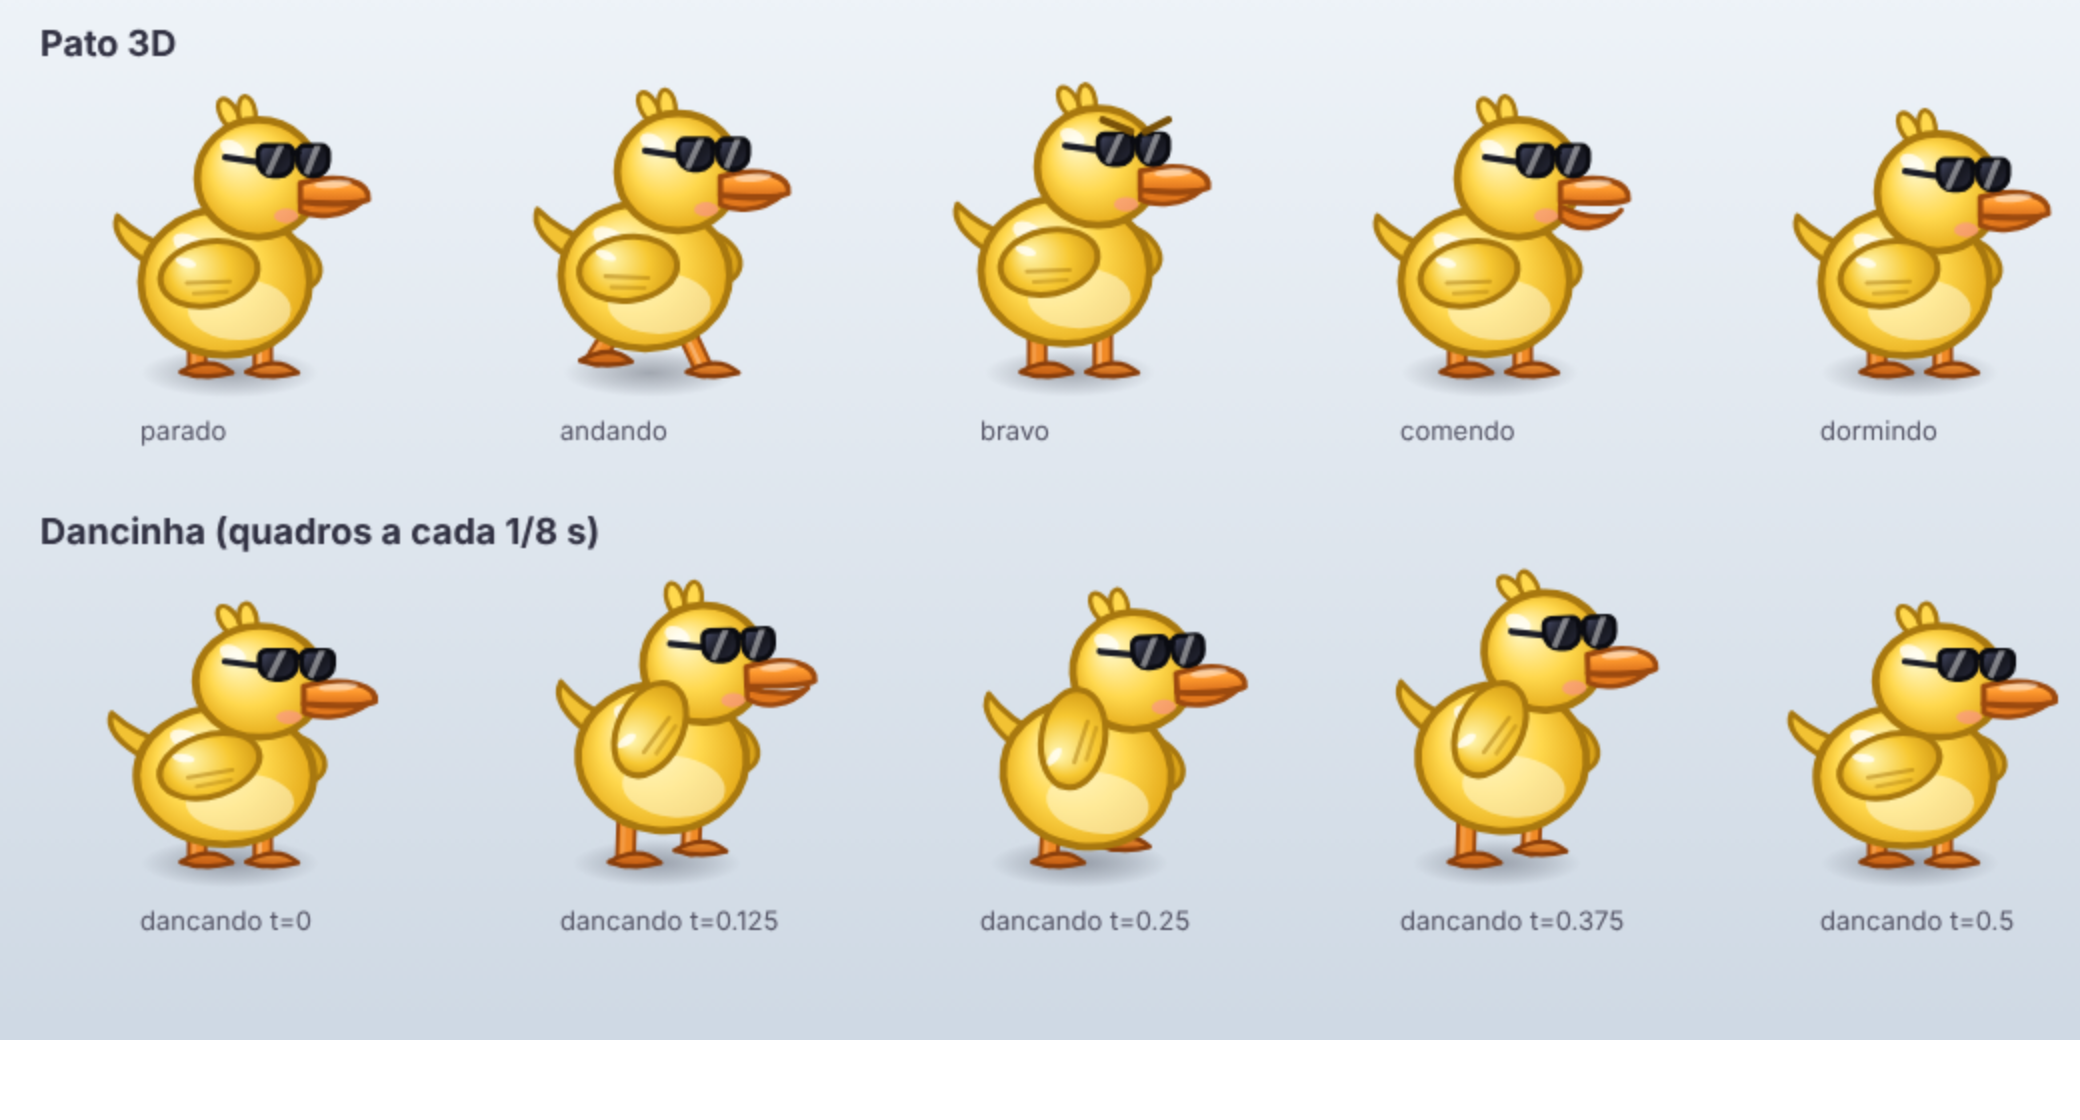
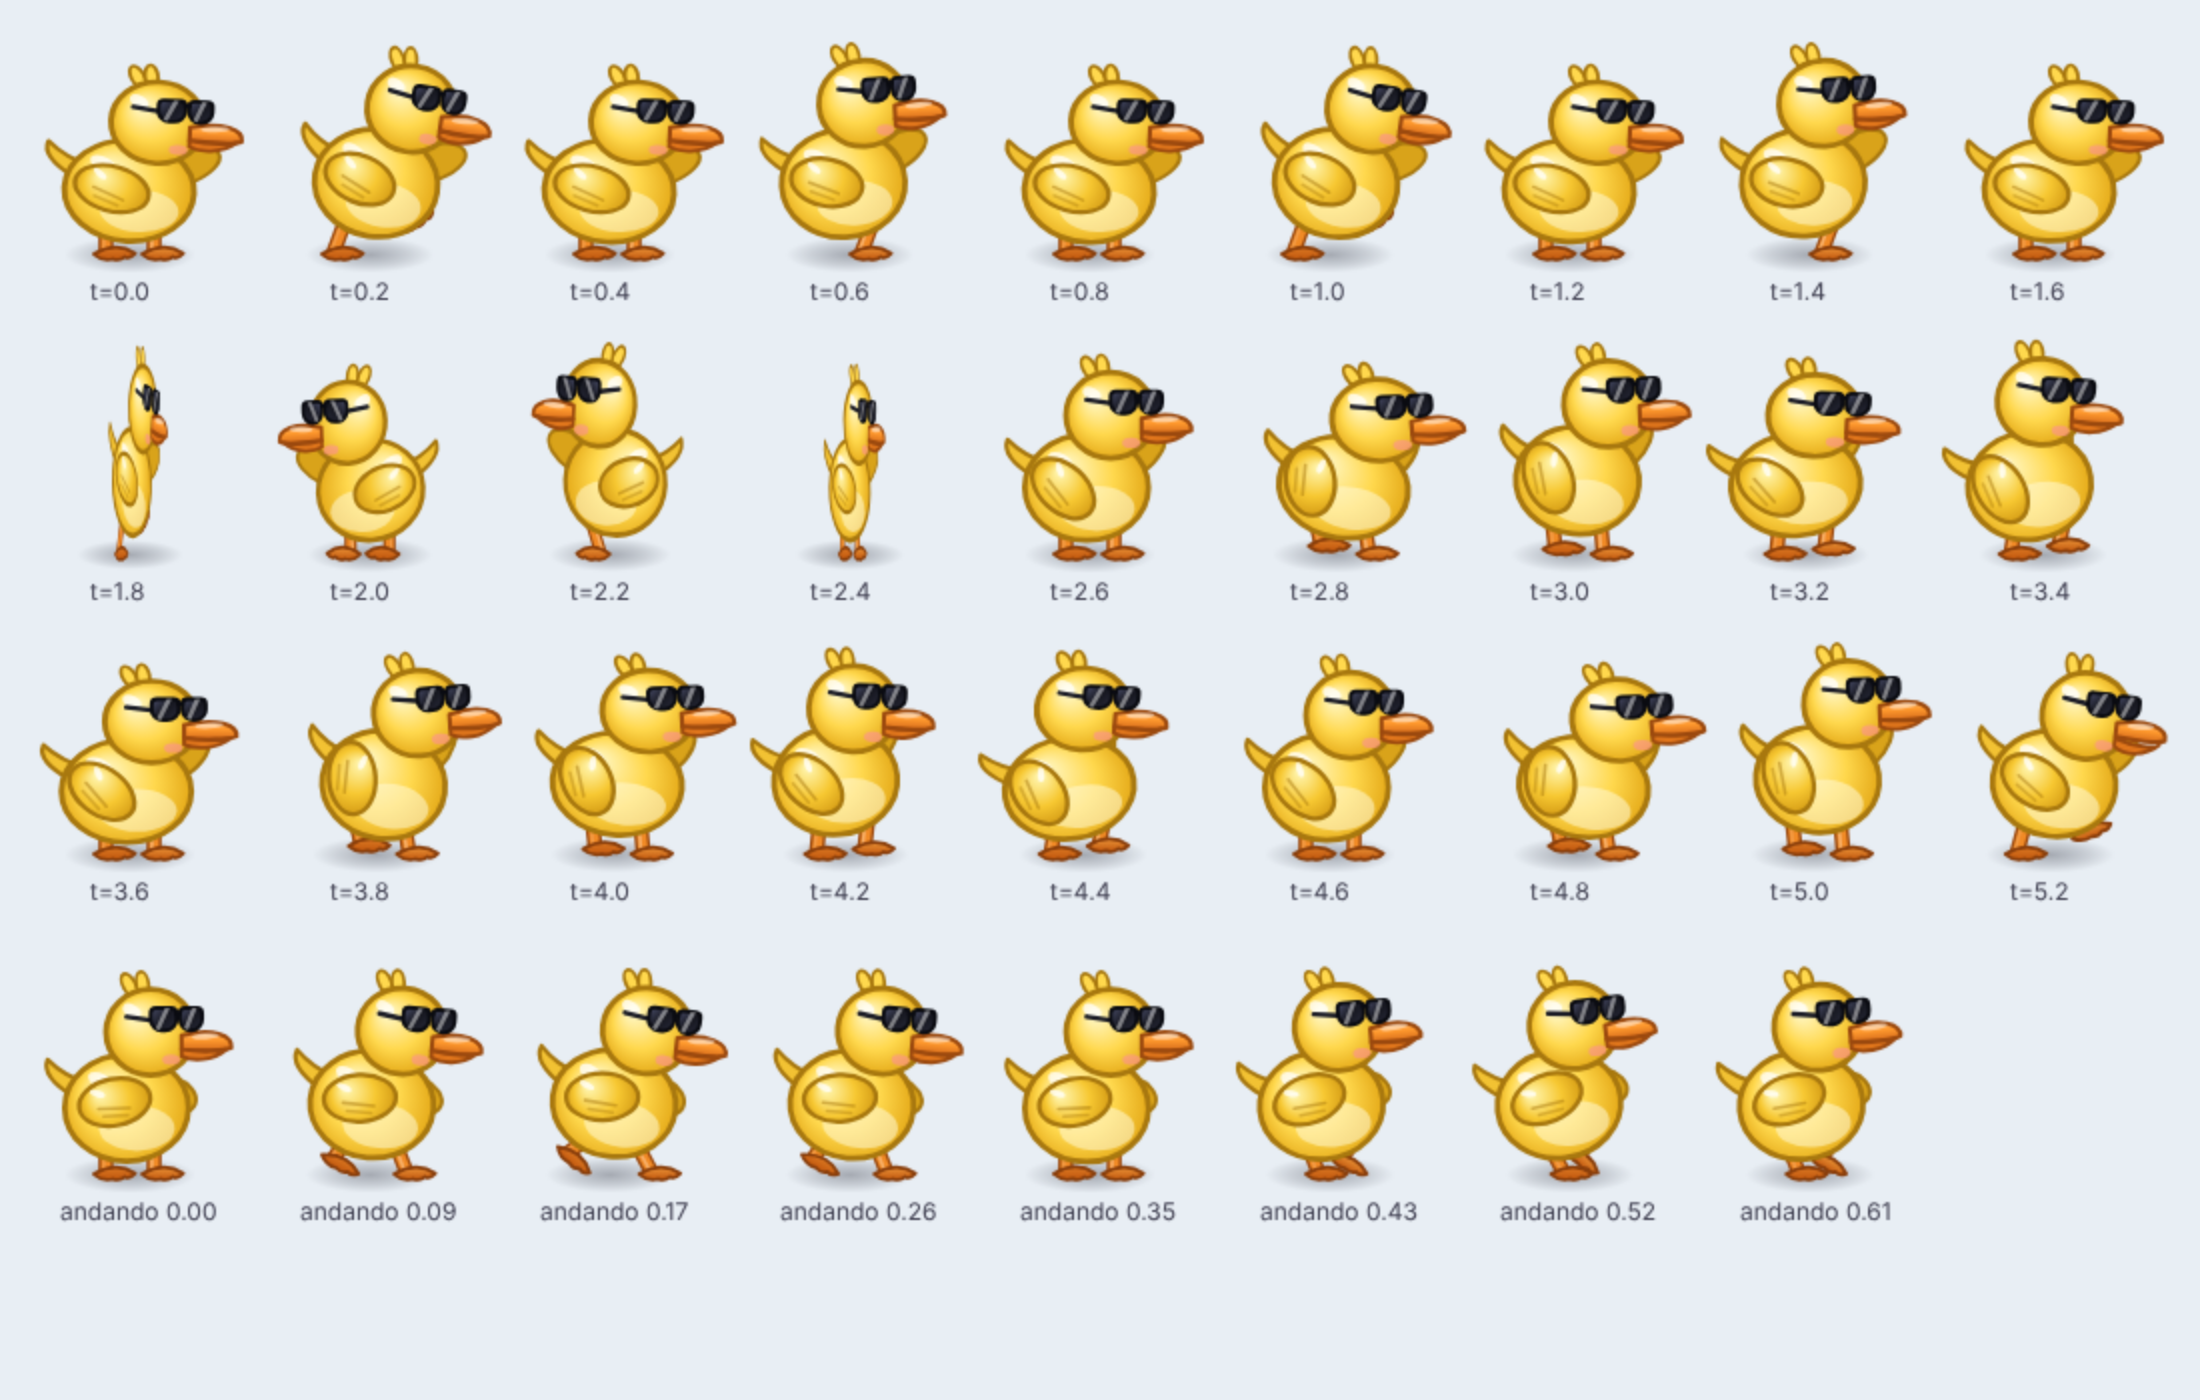
Dança e andar do Pato iguais aos vídeos: desfile, volta no lugar, rebolado e gingado
Claude-Session: https://claude.ai/code/session_018UCyvXeqjYPSoZZ531MXNh

diff --git a/src/vetor.js b/src/vetor.js
@@ -499,8 +499,8 @@
 
 
   // ---------- Pato 3D ----------
-  // Pato gordinho de óculos escuros, com a mesma luz/volume do Palito 3D. Tem a "dancinha":
-  // balança de um lado para o outro no ritmo, quica, bate as asas alternadas e mexe a cabeça.
+  // Pato gordinho de óculos escuros, com a mesma luz/volume do Palito 3D, gingado de pato no
+  // andar e uma dancinha (desfile, volta no lugar e rebolado de asas abertas).
   function pato3d(g, s) {
     const { w, h } = s;
     const r = ritmo(s);
@@ -508,45 +508,98 @@
     g.scale(w / 64, h / 64);
     const danca = s.anim === "dancando";
     const plana = !!s.planando; // caindo com as asas abertas (no lugar do paraquedas)
-    const fase = s.t * TAU * 2; // 2 batidas por segundo
-    const lado = danca ? Math.sin(fase / 2) : 0; // -1..1, um passo para cada lado por batida
-    const quica = danca ? Math.abs(Math.sin(fase)) * 3.2 : 0;
+    const andando = !danca && !plana && r.anda > 0;
+
+    // ---- pose do momento ----
+    // A dança segue o vídeo de referência em 3 partes (ciclo de 5,1 s):
+    //  1) desfile: passos marcados levantando bem os pés, asas um pouco abertas;
+    //  2) dá uma volta no lugar (gira) sem parar de marchar;
+    //  3) rebola de um lado para o outro com as asas abertas e a cabeça inclinando.
+    // O andar é um gingado de pato: o corpo rola para o lado do pé que está no chão e o
+    // pé que sobe vai para trás mostrando a sola.
+    const pose = { lado: 0, rot: 0, giro: 1, quica: 0, asaFrente: null, asaTras: null, inclina: 0, bob: 0, pes: {} };
+    const T = danca ? s.t % 5.1 : 0;
+    const marchar = (freq, alto) => {
+      const p = Math.sin(T * TAU * freq);
+      pose.rot = p * 0.1 + 0.05;
+      pose.quica = Math.abs(p) * 1.5;
+      for (const ld of [-1, 1]) {
+        const sobe = Math.max(0, p * ld);
+        pose.pes[ld] = { levanta: sobe * alto, anda: p * ld * 3.5, ang: -sobe * 0.5 };
+      }
+      const bate = Math.sin(T * TAU * freq * 2);
+      pose.asaFrente = 0.45 + bate * 0.2;
+      pose.asaTras = -0.45 - bate * 0.2;
+      pose.bob = Math.sin(T * TAU * freq * 2 + 0.6) * 1.4;
+    };
+    if (danca && T < 2.6) {
+      marchar(1.25, 8);
+      if (T >= 1.6) pose.giro = Math.cos(((T - 1.6) / 1.0) * TAU); // uma volta inteira
+    } else if (danca) {
+      const lado = Math.sin((T - 2.6) * TAU);
+      pose.lado = lado;
+      pose.rot = lado * 0.15;
+      pose.quica = Math.abs(Math.sin((T - 2.6) * TAU * 2)) * 2.4;
+      const flap = Math.sin(T * TAU * 3) * 0.22;
+      pose.asaFrente = 1.15 + flap + Math.max(0, lado) * 0.3;
+      pose.asaTras = -0.85 - flap - Math.max(0, -lado) * 0.3;
+      pose.inclina = -lado * 0.22;
+      pose.bob = Math.sin((T - 2.6) * TAU * 2 + 0.6) * 1.6;
+      for (const ld of [-1, 1]) pose.pes[ld] = { levanta: Math.max(0, -lado * ld) * 2.5, anda: lado * 2, ang: 0 };
+    } else if (andando) {
+      pose.rot = r.passo * 0.12;
+      for (const ld of [-1, 1]) {
+        const sobe = Math.max(0, -r.passo * ld);
+        pose.pes[ld] = { levanta: sobe * 5.5, anda: r.passo * 5 * ld, ang: sobe * 0.7 };
+      }
+    }
+    const lado = pose.lado;
+    const quica = pose.quica;
     const sobe = -r.quique - r.pulo - quica;
-    sombra3d(g, 32 + lado * 2, 62.5, 19, -sobe + (s.anim === "caindo" ? 30 : 0));
+    sombra3d(g, 32 + lado * 2, 62.5, 19 * (0.75 + 0.25 * Math.abs(pose.giro)), -sobe + (s.anim === "caindo" ? 30 : 0));
+    // girando: espelha tudo em volta do meio (fica fininho no meio da volta)
+    g.translate(32, 0);
+    g.scale(Math.abs(pose.giro) < 0.12 ? 0.12 * Math.sign(pose.giro || 1) : pose.giro, 1);
+    g.translate(-32, 0);
 
     const AMARELO = ["#fff7c2", "#ffd84d", "#e3a614", "#a8780f"];
     const LARANJA = ["#ffc58a", "#ff9a2e", "#d4691a", "#9c4a0f"];
-    // pés: na dança, o pé do lado para onde ele vai levanta
+    // pés grandes e chatos de pato
     for (const [px, ld] of [[25, -1], [39, 1]]) {
-      const levanta = plana ? 5 : danca ? Math.max(0, lado * ld) * 3.5 : Math.max(0, -r.passo * ld) * 2.5;
-      const anda = plana ? -4 : r.passo * 4.5 * ld;
-      const fx = px + anda + lado * 2.5;
-      const fy = 61.5 - levanta;
+      const pe = pose.pes[ld] || { levanta: plana ? 5 : 0, anda: plana ? -4 : 0, ang: plana ? 0.5 : 0 };
+      const fx = px + pe.anda + lado * 2.5;
+      const fy = 61.5 - pe.levanta;
       tubo(g, (c) => { c.beginPath(); c.moveTo(px + lado * 3, 53 + sobe * 0.6); c.lineTo(fx, fy); }, 2.8, ["#9c4a0f", "#f08a26", "#ffd0a0"], r, ld < 0);
+      g.save();
+      g.translate(fx, fy);
+      g.rotate(pe.ang);
       g.beginPath();
-      g.moveTo(fx - 3.5, fy + 0.8);
-      g.quadraticCurveTo(fx + 3, fy - 3, fx + 7.5, fy + 1);
-      g.quadraticCurveTo(fx + 2, fy + 2.6, fx - 3.5, fy + 0.8);
-      const gp = g.createLinearGradient(0, fy - 3, 0, fy + 2.5);
+      g.moveTo(-3.5, 0.8);
+      g.quadraticCurveTo(3, -3.2, 8.5, 0.6);
+      g.quadraticCurveTo(7, 2.4, 5.5, 1.6);
+      g.quadraticCurveTo(4, 3, 2, 2.2);
+      g.quadraticCurveTo(-1, 3, -3.5, 0.8);
+      const gp = g.createLinearGradient(0, -3, 0, 2.5);
       gp.addColorStop(0, ld < 0 ? "#e8892c" : "#ffb04a");
       gp.addColorStop(1, "#c0560e");
       pintar(g, gp, "#8a3f0c", 1);
+      g.restore();
     }
 
     g.save();
-    // gira o corpo todo em volta dos pés (rebolado), quica e achata um pouco ao "pousar"
+    // gira o corpo todo em volta dos pés (gingado/rebolado), quica e achata um pouco ao "pousar"
     g.translate(32, 60);
-    g.rotate(lado * 0.13 + (plana ? 0.18 + Math.sin(s.t * 3) * 0.05 : 0));
-    const achata = danca ? 1 - Math.max(0, Math.cos(fase)) * 0.05 : 1;
+    g.rotate(pose.rot + (plana ? 0.18 + Math.sin(s.t * 3) * 0.05 : 0));
+    const achata = danca ? 1 - Math.max(0, Math.cos(T * TAU * 2.5)) * 0.05 : 1;
     g.scale(2 - achata, achata);
     g.translate(-32 + lado * 2.5, -60 + sobe);
 
     // asa de trás (aparece do outro lado do corpo)
-    const asaTras = danca ? -Math.max(0, -lado) * 1.1 : 0;
+    const abreTras = plana || pose.asaTras != null;
     g.save();
     g.translate(40, 40);
-    g.rotate(plana ? -0.9 + Math.sin(s.t * 3) * 0.08 : 0.35 - asaTras);
-    oval(g, plana ? 9 : 3, -2, plana ? 15 : 8, plana ? 5 : 5.5);
+    g.rotate(plana ? -0.9 + Math.sin(s.t * 3) * 0.08 : pose.asaTras ?? 0.35);
+    oval(g, abreTras ? 7 : 3, -2, abreTras ? (plana ? 15 : 11) : 8, 5.2);
     pintar(g, "#d9a31a", "#a8780f", 1.1);
     g.restore();
     // rabinho
@@ -560,8 +613,8 @@
     oval(g, 34, 49, 11, 6.5);
     pintar(g, "rgba(255,250,215,0.55)");
     // cabeça (balança contra o corpo, no contratempo)
-    const bob = danca ? Math.sin(fase + 0.6) * 1.6 : 0;
-    const inclina = danca ? -lado * 0.18 : 0;
+    const bob = pose.bob;
+    const inclina = pose.inclina;
     const cabY = (s.anim === "dormindo" ? 24 : 21) + bob;
     g.save();
     g.translate(38, cabY);
@@ -571,7 +624,7 @@
     for (const [x, a] of [[33, -0.5], [36, -0.15]]) {
       g.save();
       g.translate(x, cabY - 11.5);
-      g.rotate(a + (danca ? Math.sin(fase) * 0.25 : 0));
+      g.rotate(a + (danca ? Math.sin(T * TAU * 2.5) * 0.25 : 0));
       oval(g, 0, -2.5, 1.8, 3.6);
       pintar(g, "#ffd84d", "#a8780f", 1);
       g.restore();
@@ -579,7 +632,7 @@
     esfera(g, 38, cabY, 13, 12.5, AMARELO, r, 1.6);
     // bico largo de pato
     const by = cabY + 4;
-    const abre = r.mastiga ? 3 : danca && Math.sin(fase) > 0.7 ? 1.5 : 0; // "canta" na batida
+    const abre = r.mastiga ? 3 : danca && Math.sin(T * TAU * 2.5) > 0.7 ? 1.5 : 0; // "canta" na batida
     g.beginPath();
     g.moveTo(47, by - 3);
     g.bezierCurveTo(56, by - 5.5, 62, by - 3, 61.5, by + 0.5);
@@ -635,8 +688,8 @@
     // asa da frente: na dança sobe e desce no ritmo, oposta à de trás
     const bate = plana
       ? 1.0 + Math.sin(s.t * 3) * 0.08
-      : danca
-      ? -Math.max(0, lado) * 1.2 - 0.15
+      : pose.asaFrente != null
+      ? pose.asaFrente
       : s.anim === "caindo"
         ? Math.sin(s.t * 22) * 0.6 - 0.4
         : ["acenando", "feliz", "travessura"].includes(s.anim)

diff --git a/src/overlay.js b/src/overlay.js
@@ -191,7 +191,7 @@ function proximoEstado() {
   if (debug === "travessura" && config.bagunca) pedirTravessura();
   if (!config.passear || relogio < ficarAte) {
     const a = P.ancora || tela.casa;
-    if (sabeDancar() && Math.random() < CHANCE_DANCAR) return mudar("dancando", rand(4, 6));
+    if (sabeDancar() && Math.random() < CHANCE_DANCAR) return mudar("dancando", 5.1); // um ciclo inteiro da dança
     if (r < 0.5) return mudar("parado", rand(3, 7));
     if (r < 0.62) return mudar("acenando", 1.6);
     if (r < 0.9) {
@@ -217,7 +217,7 @@ function proximoEstado() {
     const a = areaDe(x);
     return mudar("buscar", 20, { alvo: { x, y: limitarY(rand(a.y + 220, a.y + a.h), x) }, lado });
   }
-  if (sabeDancar() && Math.random() < CHANCE_DANCAR) return mudar("dancando", rand(4, 6));
+  if (sabeDancar() && Math.random() < CHANCE_DANCAR) return mudar("dancando", 5.1); // um ciclo inteiro da dança
   if (r < 0.45) return mudar("parado", rand(2, 5));
   if (r < 0.85) return mudar("andar", 12, { alvo: pontoAleatorio() });
   if (r < 0.92) return mudar("dormindo", rand(6, 12));
